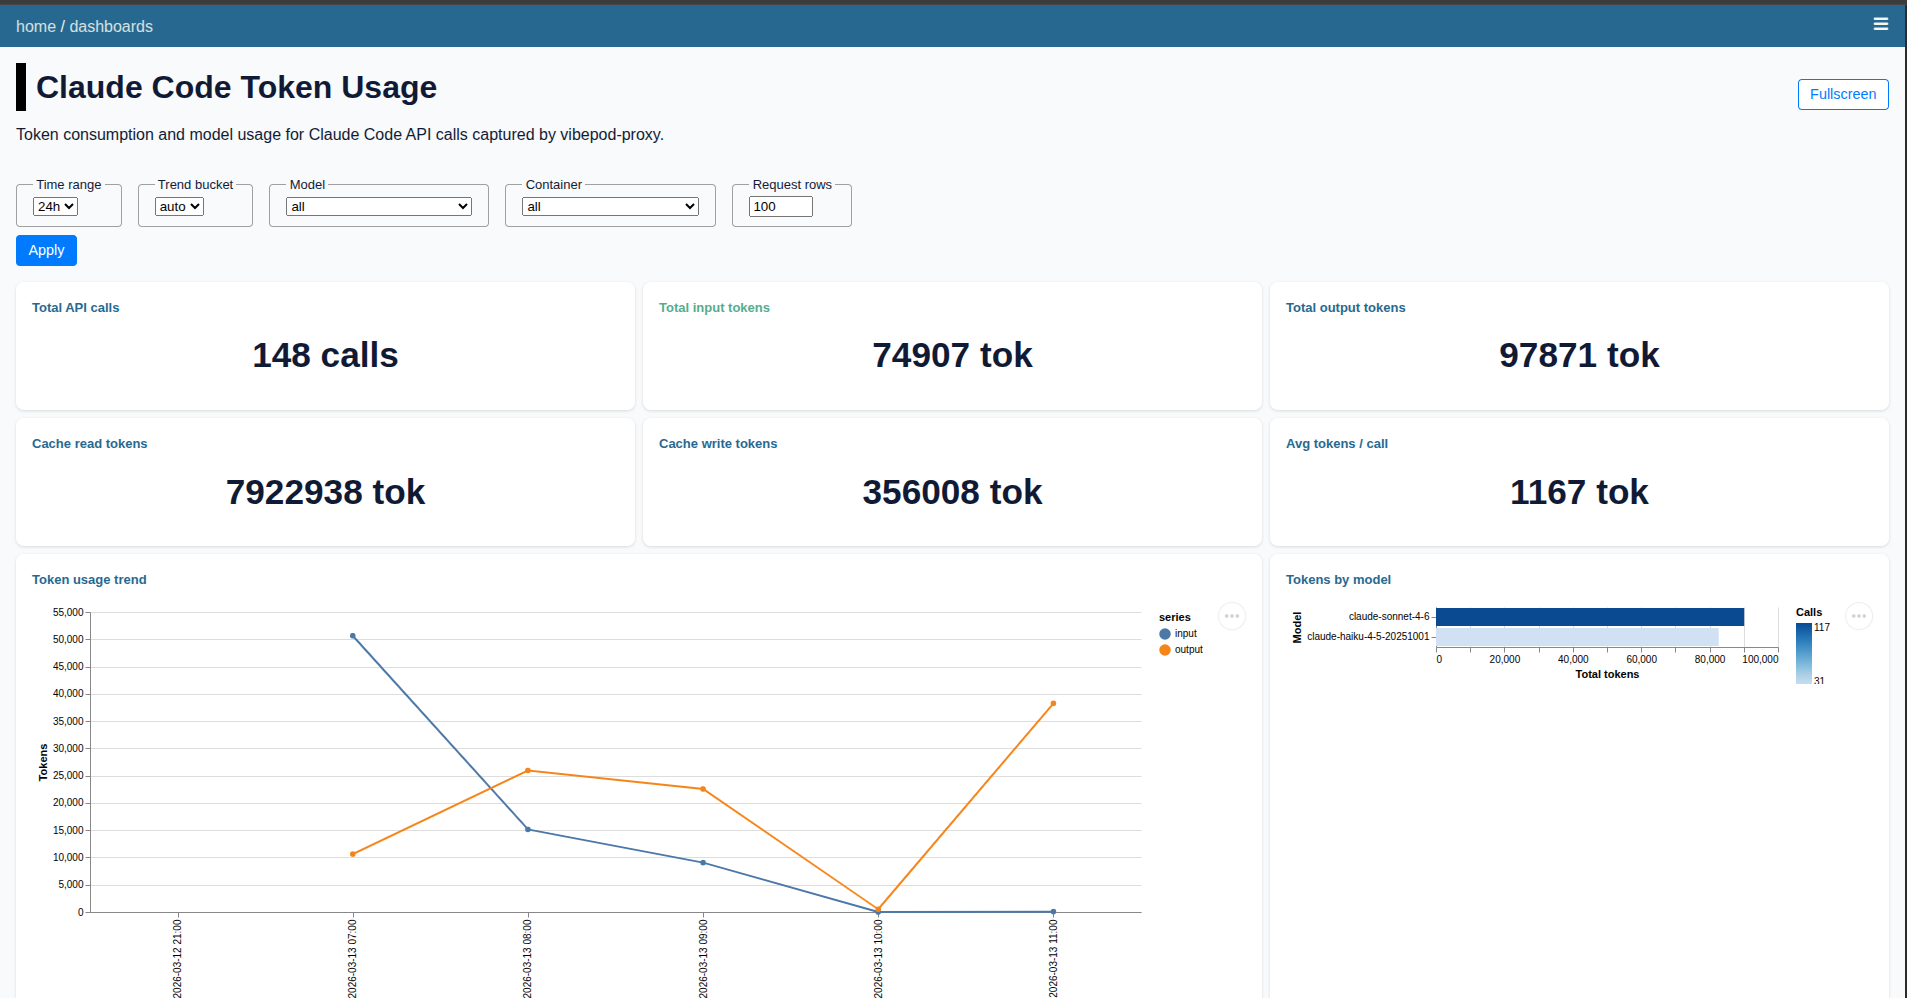
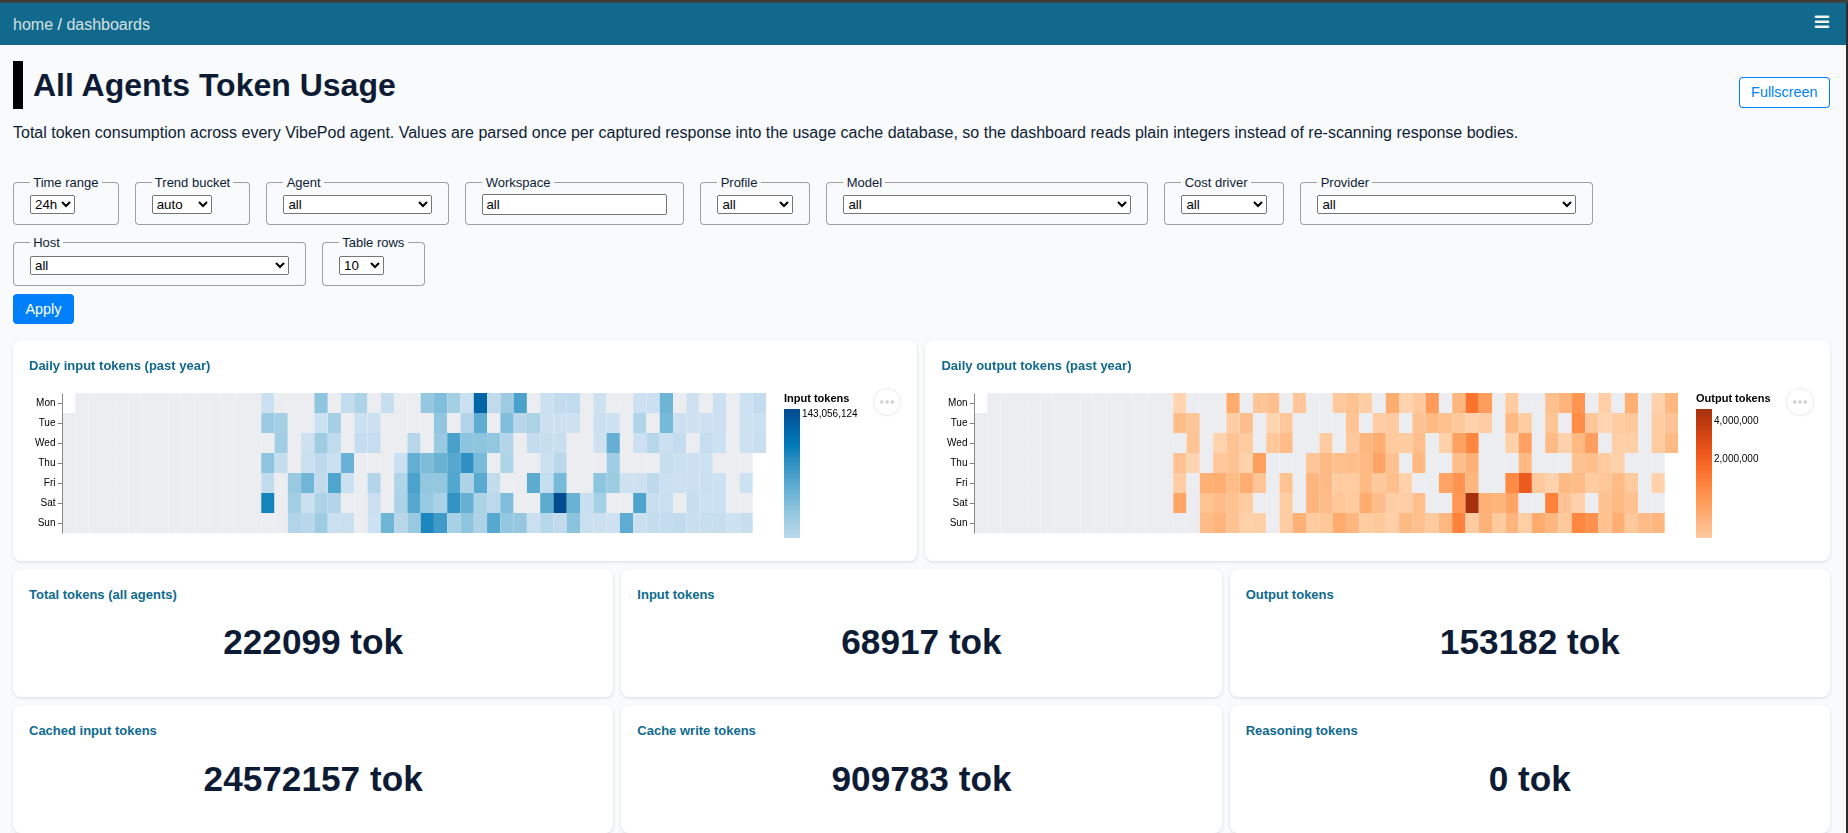
Update dashboard screenshot to all-agents token usage

diff --git a/index.html b/index.html
@@ -411,7 +411,7 @@ Starting claude with image vibepod/claude:latest</code></pre>
       <p class="section-lead">Included screenshots cover the analytics dashboard plus Auggie, Antigravity, Claude Code, Cline, Cursor, Freebuff, GitHub Copilot, DeepSeek Harness, Gemini, Hermes, Jcode, Junie, Mistral, OpenAI Codex, OpenCode, Pi, Qwen Code, and Tau.</p>
       <div class="tool-grid">
         <figure class="tool-card tool-card-wide" data-reveal>
-          <img src="screenshots/dashboard.png" alt="Screenshot of the VibePod analytics dashboard with token usage charts." loading="lazy" width="1905" height="966">
+          <img src="screenshots/dashboard.png" alt="Screenshot of the VibePod analytics dashboard with token usage charts." loading="lazy" width="1848" height="833">
           <figcaption>VibePod analytics dashboard - compare agents by usage, HTTP traffic, and activity over time.</figcaption>
         </figure>
         <figure class="tool-card" data-reveal>

diff --git a/styles.css b/styles.css
@@ -768,7 +768,7 @@ p {
 }
 
 .tool-card-wide img {
-  height: min(520px, 52vw);
+  height: auto;
   max-height: 520px;
   object-fit: cover;
   object-position: top;
